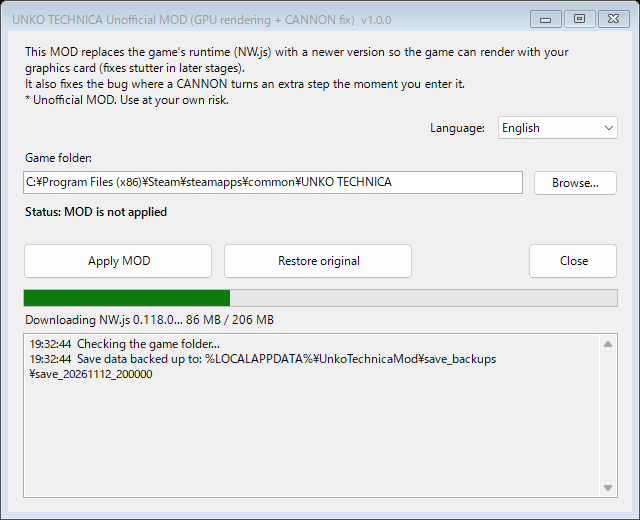
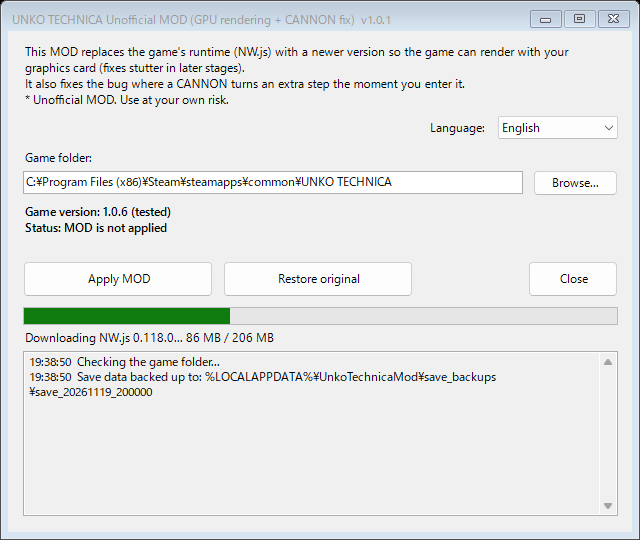
v1.0.1

diff --git a/UnkoTechnicaMod/files/CannonPhaseFix.js b/UnkoTechnicaMod/files/CannonPhaseFix.js
@@ -10,17 +10,27 @@
  * 【原因】飛び込んだときにイベントのページが切り替わり、ツクールMVが移動ルートを
  *   最初の命令（90°回転）からやり直すため。回転した直後の1フレームだけは
  *   「次はウェイト」を指しているので、ウェイトが飛ばされて余計に回る。
- * 【修正】CANNON（コモンイベント104を呼ぶイベント）だけを対象に、ページが切り替わっても
- *   移動ルートの命令の並びが同じなら、ルートの続きから動かす。
- *   ウェイト中（残り時間がある）の場合は何もしない。公式で別の方法の修正が入っても、
- *   二重に補正しないようにするため。
+ * 【修正】CANNON（コモンイベント104「タル大砲接触」を呼ぶイベント）だけを対象に、
+ *   ページが切り替わっても、移動ルートの命令の並びが同じなら、ルートの続きから動かす。
+ *   ・ゲーム1.0.6以降の公式修正（移動ルートが完全に同じときに続きから動かす）と重ねても、
+ *     二重に補正しない（ウェイト中は何もしない／公式と同じ位置を指すだけ）。
+ *   ・公式修正の対象外になる、ページごとにウェイトの長さが違うCANNONも補正する。
+ *   ・コモンイベント104の名前が「タル大砲接触」でないとき（アップデートで番号が変わったときなど）は、
+ *     何もしない。
  *
  * [Bug] Entering a rotating CANNON on the exact frame it rotates makes it turn one extra step.
  * [Fix] Keep the move-route position across the page switch (CANNON events only).
+ *       Safe to combine with the official fix in game version 1.0.6+.
  */
 (function() {
     'use strict';
     var CANNON_CE = 104;
+    var CANNON_CE_NAME = 'タル大砲接触';
+
+    function enabled() {
+        var ce = window.$dataCommonEvents && $dataCommonEvents[CANNON_CE];
+        return !!(ce && ce.name === CANNON_CE_NAME);
+    }
 
     function isCannon(ev) {
         var data = ev.event();
@@ -37,7 +47,7 @@
     Game_Event.prototype.setupPageSettings = function() {
         var oldRoute = this._moveRoute, oldIndex = this._moveRouteIndex, oldWait = this._waitCount;
         _setupPageSettings.call(this);
-        if (oldRoute && oldWait === 0 && oldIndex > 0 && isCannon(this) &&
+        if (oldRoute && oldWait === 0 && oldIndex > 0 && enabled() && isCannon(this) &&
                 codesOf(oldRoute) === codesOf(this._moveRoute) && oldIndex < this._moveRoute.list.length) {
             this._moveRouteIndex = oldIndex;
         }
